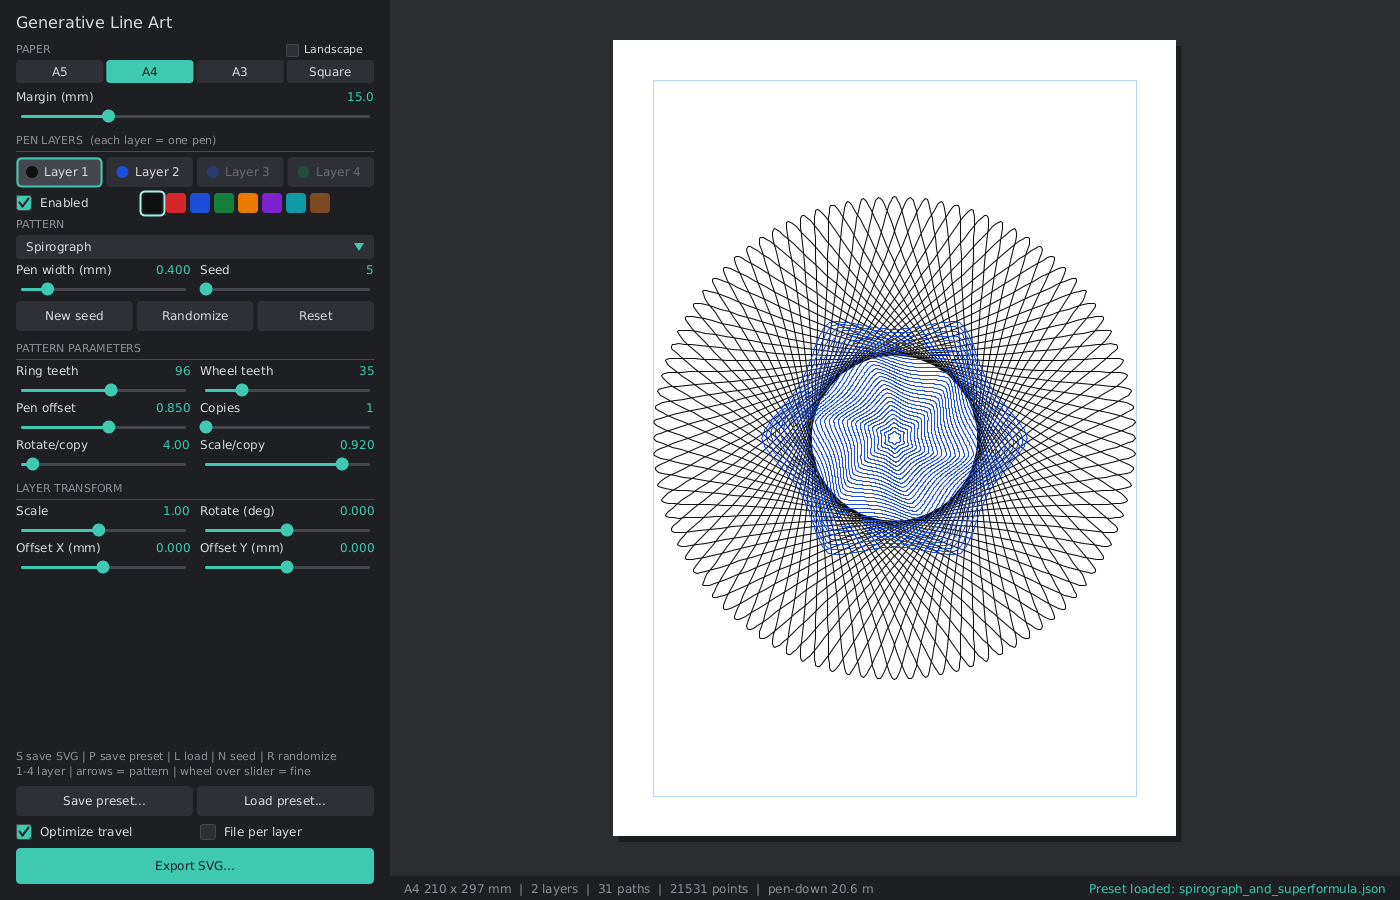
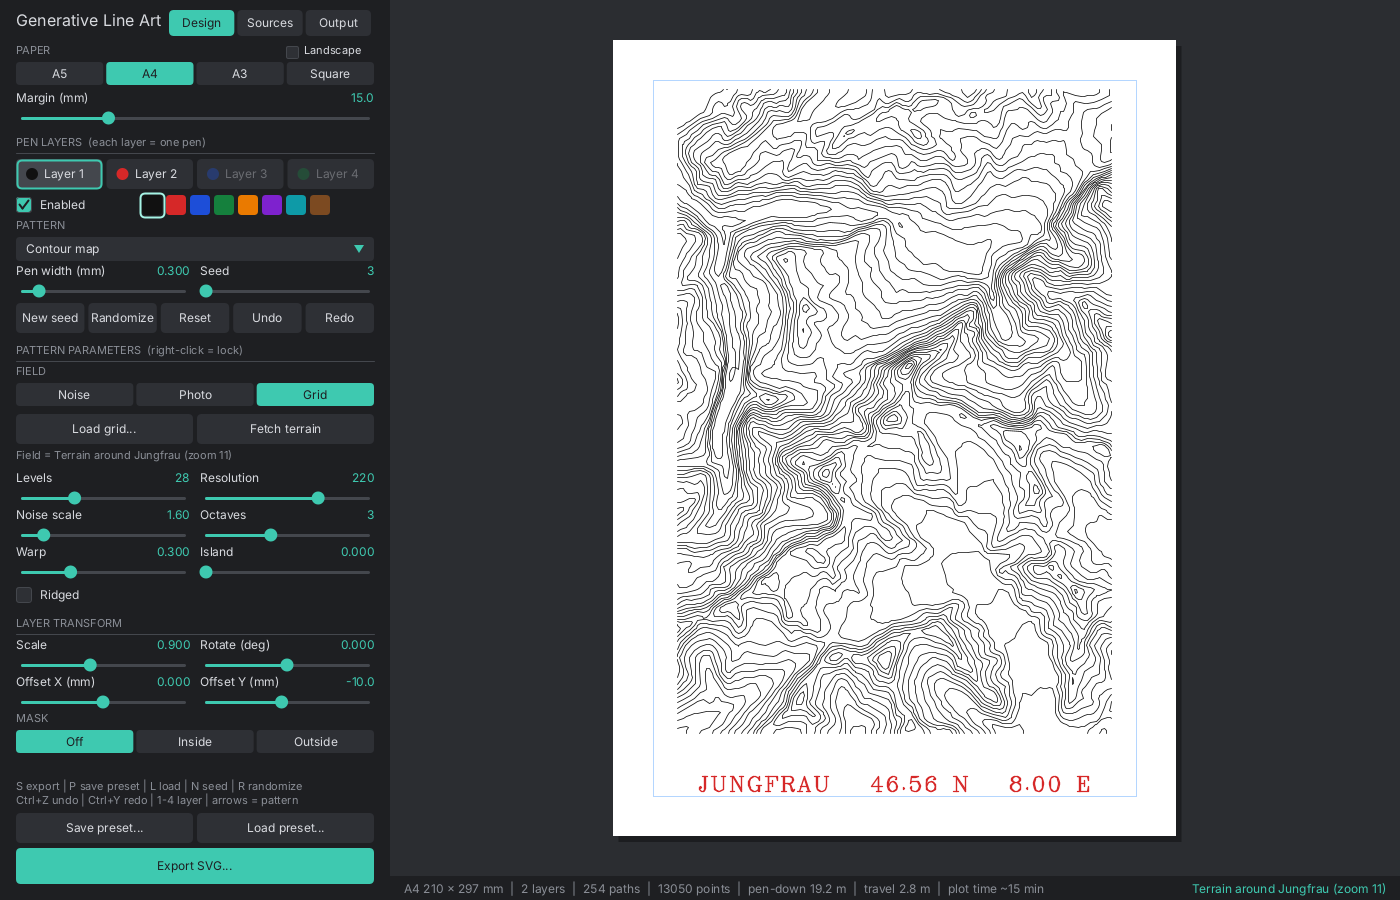
Update README screenshot (#14)
* Add external sources for automatic design generation

New Sources tab and five new patterns that build designs from outside data:

- Field sources: Flow field, Wave lines, Contour map and Hatch shading can
  follow a photo or a grid (CSV matrix, ESRI .asc, heightmap) instead of noise
- Route pattern: GPX / GeoJSON files and OpenStreetMap streets (Overpass),
  with smoothing, parallel copies and a rectangle or circle frame
- Data lines pattern: CSV / JSON series as ridgelines, rings or a spiral;
  weather from Open-Meteo; Microsoft 365 report CSVs are put in date order
- Terrain: Terrarium elevation tiles around a place, drawn as contours
- SVG import pattern with its own SVG reader and even-odd hatch fill
- Audio pattern: WAV / AIFF as waveform rows, spiral or spectrum ridgeline
- Text pattern with single-line Hershey fonts (sans, serif, script)
- Web addresses with a local download cache, so presets stay reproducible
- Watch folder that loads new files and exports them automatically
- Text to seed / design: the same name always gives the same design
- AI design: a description becomes a preset through the Claude API
- Command-line mode (--preset, --input, --out, --batch, --watch, ...)

Presets are now version 2: they also store the sources, each layer's field
and text, and accept parameters by name.

Claude-Session: https://claude.ai/code/session_016g4XoUPwffpdezjFy4s5DC

* Don't forward the API key or request body on cross-host redirects
[…]

diff --git a/README.md b/README.md
@@ -2,7 +2,7 @@
 
 Generative line art with a live-adjustable GUI, built as a single [Processing](https://processing.org/) sketch. Designed for pen plotters: everything exports as clean, millimetre-accurate SVG.
 
-![PlotterGraph GUI with a spirograph and superformula on two pen layers](docs/screenshot.png)
+![PlotterGraph GUI: real terrain around the Jungfrau as a contour map (Field = Grid), with a single-line text caption on a second pen layer](docs/screenshot.png)
 
 ## Features
 
